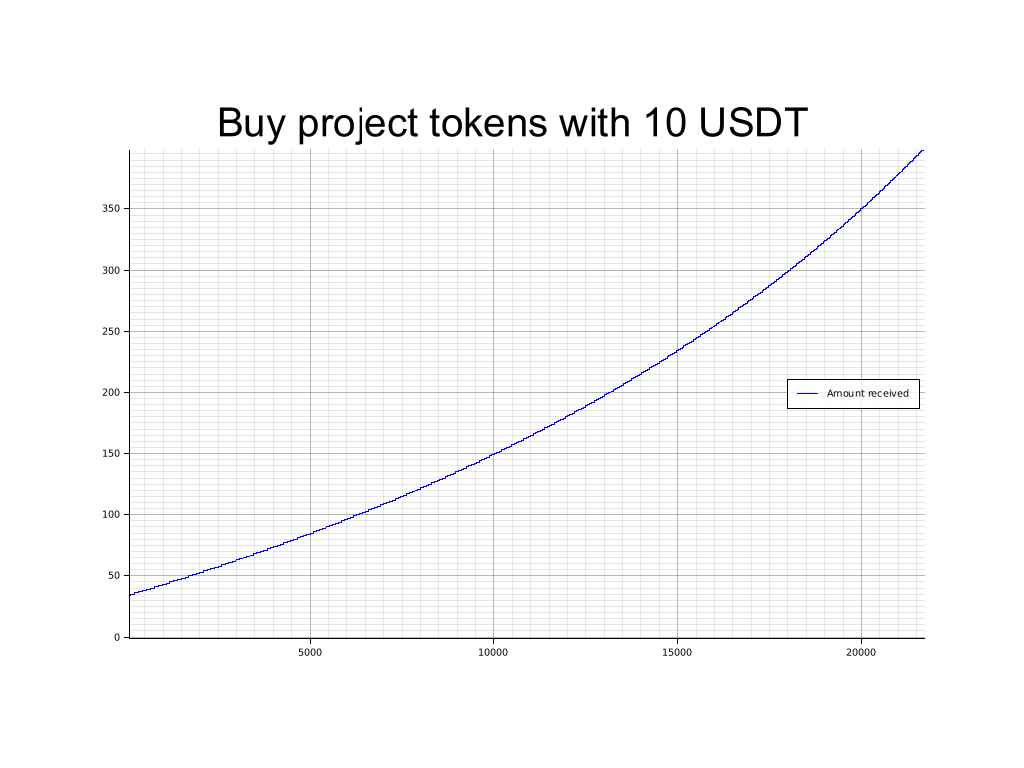
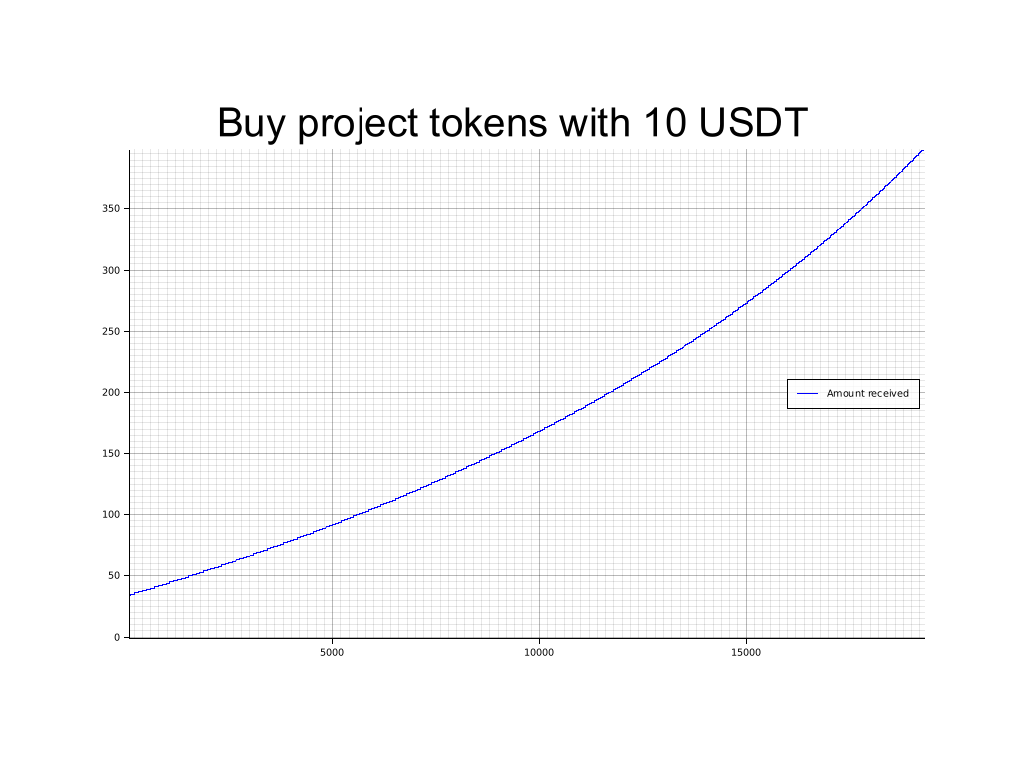
extract math to pure functions

diff --git a/frame/liquidity-bootstrapping/src/tests.rs b/frame/liquidity-bootstrapping/src/tests.rs
@@ -1,13 +1,7 @@
 use crate::{mock::*, *};
 use composable_support::validation::Validated;
-use composable_tests_helpers::test::helper::{
-	acceptable_computation_error, default_acceptable_computation_error,
-};
 use composable_traits::{defi::CurrencyPair, dex::CurveAmm};
-use frame_support::{
-	assert_ok,
-	traits::fungibles::{Inspect, Mutate},
-};
+use frame_support::{assert_ok, traits::fungibles::Mutate};
 use sp_runtime::Permill;
 
 #[test]
@@ -47,11 +41,18 @@ fn test() {
 		#[cfg(feature = "visualization")]
 		{
 			let points = (pool.sale.start..pool.sale.end)
-				.map(|block| (block, LBP::do_spot_price(pool_id, pool.pair, block).expect("impossible; qed;") as f64 / unit as f64));
+				.map(|block| {
+					(
+						block,
+						LBP::do_spot_price(pool_id, pool.pair, block).expect("impossible; qed;")
+							as f64 / unit as f64,
+					)
+				})
+				.collect::<Vec<_>>();
+			let max_amount = points.iter().copied().fold(f64::NAN, |x, (_, y)| f64::max(x, y));
 
 			use plotters::prelude::*;
-			let area =
-				BitMapBackend::new("./lbp_spot_price.png", (1024, 768)).into_drawing_area();
+			let area = BitMapBackend::new("./lbp_spot_price.png", (1024, 768)).into_drawing_area();
 			area.fill(&WHITE).unwrap();
 
 			let mut chart = ChartBuilder::on(&area)
@@ -59,18 +60,12 @@ fn test() {
 				.margin(100u32)
 				.x_label_area_size(30u32)
 				.y_label_area_size(30u32)
-				.build_cartesian_2d(
-					pool.sale.start..pool.sale.end,
-					0f64..0.5f64,
-				)
+				.build_cartesian_2d(pool.sale.start..pool.sale.end, 0f64..max_amount)
 				.unwrap();
 
 			chart.configure_mesh().draw().unwrap();
 			chart
-				.draw_series(LineSeries::new(
-					points,
-					&RED,
-				))
+				.draw_series(LineSeries::new(points, &RED))
 				.unwrap()
 				.label("base")
 				.legend(|(x, y)| PathElement::new(vec![(x, y), (x + 20, y)], &RED));
@@ -87,14 +82,16 @@ fn test() {
 			use plotters::prelude::*;
 
 			let plot_swap = |pair, swap_amount, name, caption| {
-        let points = (pool.sale.start..pool.sale.end).map(|block| {
-					(
-						block,
-						LBP::do_get_exchange(pool_id, pair, block, swap_amount)
-							.expect("impossible; qed;") / unit,
-					)
-				}).collect::<Vec<_>>();
-        let max_amount = points.iter().copied().map(|(_, x)| x).max().unwrap();
+				let points = (pool.sale.start..pool.sale.end)
+					.map(|block| {
+						(
+							block,
+							LBP::do_get_exchange(pool_id, pair, block, swap_amount)
+								.expect("impossible; qed;") / unit,
+						)
+					})
+					.collect::<Vec<_>>();
+				let max_amount = points.iter().copied().map(|(_, x)| x).max().unwrap();
 
 				let area = BitMapBackend::new(name, (1024, 768)).into_drawing_area();
 				area.fill(&WHITE).unwrap();
@@ -104,18 +101,12 @@ fn test() {
 					.margin(100u32)
 					.x_label_area_size(30u32)
 					.y_label_area_size(30u32)
-					.build_cartesian_2d(
-						pool.sale.start..pool.sale.end,
-						0..max_amount,
-					)
+					.build_cartesian_2d(pool.sale.start..pool.sale.end, 0..max_amount)
 					.unwrap();
 
 				chart.configure_mesh().draw().unwrap();
 				chart
-					.draw_series(LineSeries::new(
-						points,
-						&BLUE,
-					))
+					.draw_series(LineSeries::new(points, &BLUE))
 					.unwrap()
 					.label("Amount received")
 					.legend(|(x, y)| PathElement::new(vec![(x, y), (x + 20, y)], &BLUE));
@@ -127,17 +118,26 @@ fn test() {
 					.unwrap();
 			};
 
-      let buy_amount = 10;
-      plot_swap(pair, buy_amount * unit, "./lbp_buy_project.png", format!("Buy project tokens with {} USDT", buy_amount));
-      let sell_amount = 100_000;
-      plot_swap(pair.swap(), 100_000 * unit, "./lbp_sell_project.png", format!("Sell {} project tokens", sell_amount));
+			let buy_amount = 10;
+			plot_swap(
+				pair,
+				buy_amount * unit,
+				"./lbp_buy_project.png",
+				format!("Buy project tokens with {} USDT", buy_amount),
+			);
+			let sell_amount = 100_000;
+			plot_swap(
+				pair.swap(),
+				100_000 * unit,
+				"./lbp_sell_project.png",
+				format!("Sell {} project tokens", sell_amount),
+			);
 		}
 
 		#[cfg(feature = "visualization")]
 		{
 			use plotters::prelude::*;
-			let area =
-				BitMapBackend::new("./lbp_weights.png", (1024, 768)).into_drawing_area();
+			let area = BitMapBackend::new("./lbp_weights.png", (1024, 768)).into_drawing_area();
 			area.fill(&WHITE).unwrap();
 
 			let mut chart = ChartBuilder::on(&area)
@@ -145,10 +145,7 @@ fn test() {
 				.margin(100u32)
 				.x_label_area_size(30u32)
 				.y_label_area_size(30u32)
-				.build_cartesian_2d(
-					pool.sale.start..pool.sale.end,
-					0..Permill::one().deconstruct(),
-				)
+				.build_cartesian_2d(pool.sale.start..pool.sale.end, 0..Permill::one().deconstruct())
 				.unwrap();
 
 			let points = (pool.sale.start..pool.sale.end)
@@ -167,9 +164,7 @@ fn test() {
 				.legend(|(x, y)| PathElement::new(vec![(x, y), (x + 20, y)], &RED));
 			chart
 				.draw_series(LineSeries::new(
-					points.map(|(block, (_, quote_weight))| {
-						(block, quote_weight.deconstruct())
-					}),
+					points.map(|(block, (_, quote_weight))| (block, quote_weight.deconstruct())),
 					&BLUE,
 				))
 				.unwrap()

diff --git a/frame/liquidity-bootstrapping/src/lib.rs b/frame/liquidity-bootstrapping/src/lib.rs
@@ -45,9 +45,14 @@ mod mock;
 #[cfg(test)]
 mod tests;
 
+mod maths;
+
 #[frame_support::pallet]
 pub mod pallet {
-	use crate::weights::WeightInfo;
+	use crate::{
+		maths::{compute_spot_price, compute_out_given_in},
+		weights::WeightInfo,
+	};
 	use codec::{Codec, FullCodec};
 	use composable_support::validation::{Validate, Validated};
 	use composable_traits::{
@@ -471,46 +476,17 @@ pub mod pallet {
 
 			let weights = pool.sale.current_weights(current_block)?;
 
-			/*
-			https://balancer.fi/whitepaper.pdf, (15)
-				  ai = amount in = quote_amount
-				  ao = amount out = base_amount
-				  bi = balance in = quote asset balance
-				  bo = balance out = base asset balance
-			wi = weight in
-			wo = weight out
-				   */
 			let (wo, wi) =
 				if pair.base == pool.pair.base { weights } else { (weights.1, weights.0) };
 
 			let pool_account = Self::account_id(&pool_id);
-			let bi = Decimal::from_u128(T::Convert::convert(T::Assets::balance(
-				pair.quote,
-				&pool_account,
-			)))
-			.ok_or(ArithmeticError::Overflow)?;
-			let bo = Decimal::from_u128(T::Convert::convert(T::Assets::balance(
-				pair.base,
-				&pool_account,
-			)))
-			.ok_or(ArithmeticError::Overflow)?;
+			let bi = T::Convert::convert(T::Assets::balance(pair.quote, &pool_account));
+			let bo = T::Convert::convert(T::Assets::balance(pair.base, &pool_account));
+			let base_unit = T::LocalAssets::unit::<u128>(pair.base)?;
 
-			let full_percent =
-				Decimal::from_u32(Permill::one().deconstruct()).ok_or(ArithmeticError::Overflow)?;
-			let wi_numer = Decimal::from_u32(wi.deconstruct()).ok_or(ArithmeticError::Overflow)?;
-			let wi = wi_numer.safe_div(&full_percent)?;
-			let wo_numer = Decimal::from_u32(wo.deconstruct()).ok_or(ArithmeticError::Overflow)?;
-			let wo = wo_numer.safe_div(&full_percent)?;
-			let bi_div_wi = bi.safe_div(&wi)?;
-			let bo_div_wo = bo.safe_div(&wo)?;
-			let spot_price = bi_div_wi.safe_div(&bo_div_wo)?;
+			let spot_price = compute_spot_price(wi, wo, bi, bo, base_unit)?;
 
-			let base_unit = Decimal::from_u128(T::LocalAssets::unit::<u128>(pair.base)?)
-				.ok_or(ArithmeticError::Overflow)?;
-
-			Ok(T::Convert::convert(
-				spot_price.safe_mul(&base_unit)?.to_u128().ok_or(ArithmeticError::Overflow)?,
-			))
+			Ok(T::Convert::convert(spot_price))
 		}
 
 		pub(crate) fn do_get_exchange(
@@ -527,45 +503,17 @@ pub mod pallet {
 
 			let weights = pool.sale.current_weights(current_block)?;
 
-			/*
-			https://balancer.fi/whitepaper.pdf, (15)
-				  ai = amount in = quote_amount
-				  ao = amount out = base_amount
-				  bi = balance in = quote asset balance
-				  bo = balance out = base asset balance
-			wi = weight in
-			wo = weight out
-				   */
 			let (wo, wi) =
 				if pair.base == pool.pair.base { weights } else { (weights.1, weights.0) };
 
 			let pool_account = Self::account_id(&pool_id);
+			let ai = T::Convert::convert(quote_amount);
+			let bi = T::Convert::convert(T::Assets::balance(pair.quote, &pool_account));
+			let bo = T::Convert::convert(T::Assets::balance(pair.base, &pool_account));
 
-			let ai = Decimal::from_u128(T::Convert::convert(quote_amount))
-				.ok_or(ArithmeticError::Overflow)?;
-			let bi = Decimal::from_u128(T::Convert::convert(T::Assets::balance(
-				pair.quote,
-				&pool_account,
-			)))
-			.ok_or(ArithmeticError::Overflow)?;
-			let bo = Decimal::from_u128(T::Convert::convert(T::Assets::balance(
-				pair.base,
-				&pool_account,
-			)))
-			.ok_or(ArithmeticError::Overflow)?;
-			let weight_numer =
-				Decimal::from_u32(wi.deconstruct()).ok_or(ArithmeticError::Overflow)?;
-			let weight_denom =
-				Decimal::from_u32(wo.deconstruct()).ok_or(ArithmeticError::Overflow)?;
-			let weight_power = weight_numer.safe_div(&weight_denom)?;
-			let bi_div_bi_plus_ai = bi.safe_div(&bi.safe_add(&ai)?)?;
-			let term_to_weight_power =
-				bi_div_bi_plus_ai.checked_powd(weight_power).ok_or(ArithmeticError::Overflow)?;
-			let one_minus_term = Decimal::one().safe_sub(&term_to_weight_power)?;
-			let ao = bo.safe_mul(&one_minus_term)?.to_u128().ok_or(ArithmeticError::Overflow)?;
-			let base_amount = T::Convert::convert(ao);
+			let base_amount = compute_out_given_in(wi, wo, bi, bo, ai)?;
 
-			Ok(base_amount)
+			Ok(T::Convert::convert(base_amount))
 		}
 	}
 

diff --git a/frame/liquidity-bootstrapping/src/maths.rs b/frame/liquidity-bootstrapping/src/maths.rs
@@ -1,0 +1,67 @@
+use composable_traits::math::SafeArithmetic;
+use rust_decimal::{
+	prelude::{FromPrimitive, ToPrimitive},
+	Decimal, MathematicalOps,
+};
+use sp_runtime::{traits::One, ArithmeticError, DispatchError, PerThing};
+
+/// From https://balancer.fi/whitepaper.pdf, equation (15)
+/// Compute the amount of base asset (out) given the quote asset (in).
+/// - `wi` the weight on the quote asset
+/// - `wo` the weight of the base asset
+/// - `bi` the pool quote balance
+/// - `bo` the pool base balance
+/// - `ai` the quote amount to trade
+#[inline(always)]
+pub fn compute_out_given_in<T: PerThing>(
+	wi: T,
+	wo: T,
+	bi: u128,
+	bo: u128,
+	ai: u128,
+) -> Result<u128, DispatchError>
+where
+	T::Inner: Into<u32>,
+{
+	let ai = Decimal::from_u128(ai).ok_or(ArithmeticError::Overflow)?;
+	let bi = Decimal::from_u128(bi).ok_or(ArithmeticError::Overflow)?;
+	let bo = Decimal::from_u128(bo).ok_or(ArithmeticError::Overflow)?;
+	let weight_numer =
+		Decimal::from_u32(wi.deconstruct().into()).ok_or(ArithmeticError::Overflow)?;
+	let weight_denom =
+		Decimal::from_u32(wo.deconstruct().into()).ok_or(ArithmeticError::Overflow)?;
+	let weight_power = weight_numer.safe_div(&weight_denom)?;
+	let bi_div_bi_plus_ai = bi.safe_div(&bi.safe_add(&ai)?)?;
+	let term_to_weight_power =
+		bi_div_bi_plus_ai.checked_powd(weight_power).ok_or(ArithmeticError::Overflow)?;
+	let one_minus_term = Decimal::one().safe_sub(&term_to_weight_power)?;
+	let ao = bo.safe_mul(&one_minus_term)?.to_u128().ok_or(ArithmeticError::Overflow)?;
+	Ok(ao)
+}
+
+/// From https://balancer.fi/whitepaper.pdf, equation (2)
+/// Compute the spot price of an asset pair.
+/// - `wi` the weight on the quote asset
+/// - `wo` the weight of the base asset
+/// - `bi` the pool quote balance
+/// - `bo` the pool base balance
+/// - `base_unit` the unit normalized to the base asset decimal
+#[inline(always)]
+pub fn compute_spot_price<T: PerThing>(wi: T, wo: T, bi: u128, bo: u128, base_unit: u128) -> Result<u128, DispatchError>
+where
+	T::Inner: Into<u32>,
+{
+	let base_unit = Decimal::from_u128(base_unit).ok_or(ArithmeticError::Overflow)?;
+	let bi = Decimal::from_u128(bi).ok_or(ArithmeticError::Overflow)?;
+	let bo = Decimal::from_u128(bo).ok_or(ArithmeticError::Overflow)?;
+	let full_perthing =
+		Decimal::from_u32(T::one().deconstruct().into()).ok_or(ArithmeticError::Overflow)?;
+	let wi_numer = Decimal::from_u32(wi.deconstruct().into()).ok_or(ArithmeticError::Overflow)?;
+	let wi = wi_numer.safe_div(&full_perthing)?;
+	let wo_numer = Decimal::from_u32(wo.deconstruct().into()).ok_or(ArithmeticError::Overflow)?;
+	let wo = wo_numer.safe_div(&full_perthing)?;
+	let bi_div_wi = bi.safe_div(&wi)?;
+	let bo_div_wo = bo.safe_div(&wo)?;
+	let spot_price = bi_div_wi.safe_div(&bo_div_wo)?;
+	Ok(spot_price.safe_mul(&base_unit)?.to_u128().ok_or(ArithmeticError::Overflow)?)
+}
